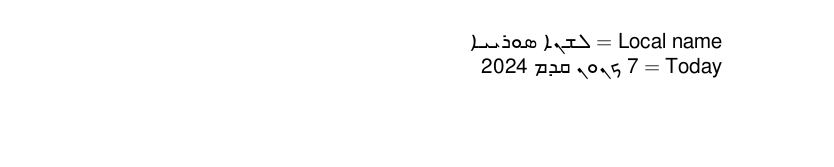
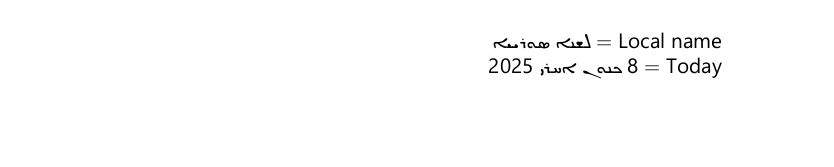
Fixed guide for Syriac.

diff --git a/docs/guides/locale-syriac.md b/docs/guides/locale-syriac.md
@@ -13,12 +13,18 @@ Here is a minimal sample file with `syriac` as the main language
 (assuming `luatex`, which is the recommended engine, and `babel` ≥24.14,
 although it may work with previous versions).
 
+Segoe UI Historic is a Windows font, which renders correctly ligatures
+and abbreviations. Many fonts don’t.
+
+There is an example in the repository:
+[tex](https://github.com/latex3/babel/blob/02a0a862d60a30f99541adf147a90ed2330aeac7/samples/lua-syriac.tex), [pdf](https://github.com/latex3/babel/blob/02a0a862d60a30f99541adf147a90ed2330aeac7/samples/lua-syriac.pdf).
+
 ```tex
 \documentclass[syriac]{article}
 
 \usepackage[provide=*,bidi=basic]{babel}
 
-\babelfont{rm}{FreeSans}
+\babelfont{rm}{Segoe UI Historic}
 
 \begin{document}
 
@@ -34,6 +40,6 @@ Today $=$ \today
 ## Contribute
 
 If you are a native speaker or have expertise in this language, you can
-contribute, make suggestion or request an enhancement by submitting a
+contribute, make suggestions or request enhancements by submitting a
 pull request, opening an issue, or contacting the Babel maintainer with
 the link above.
